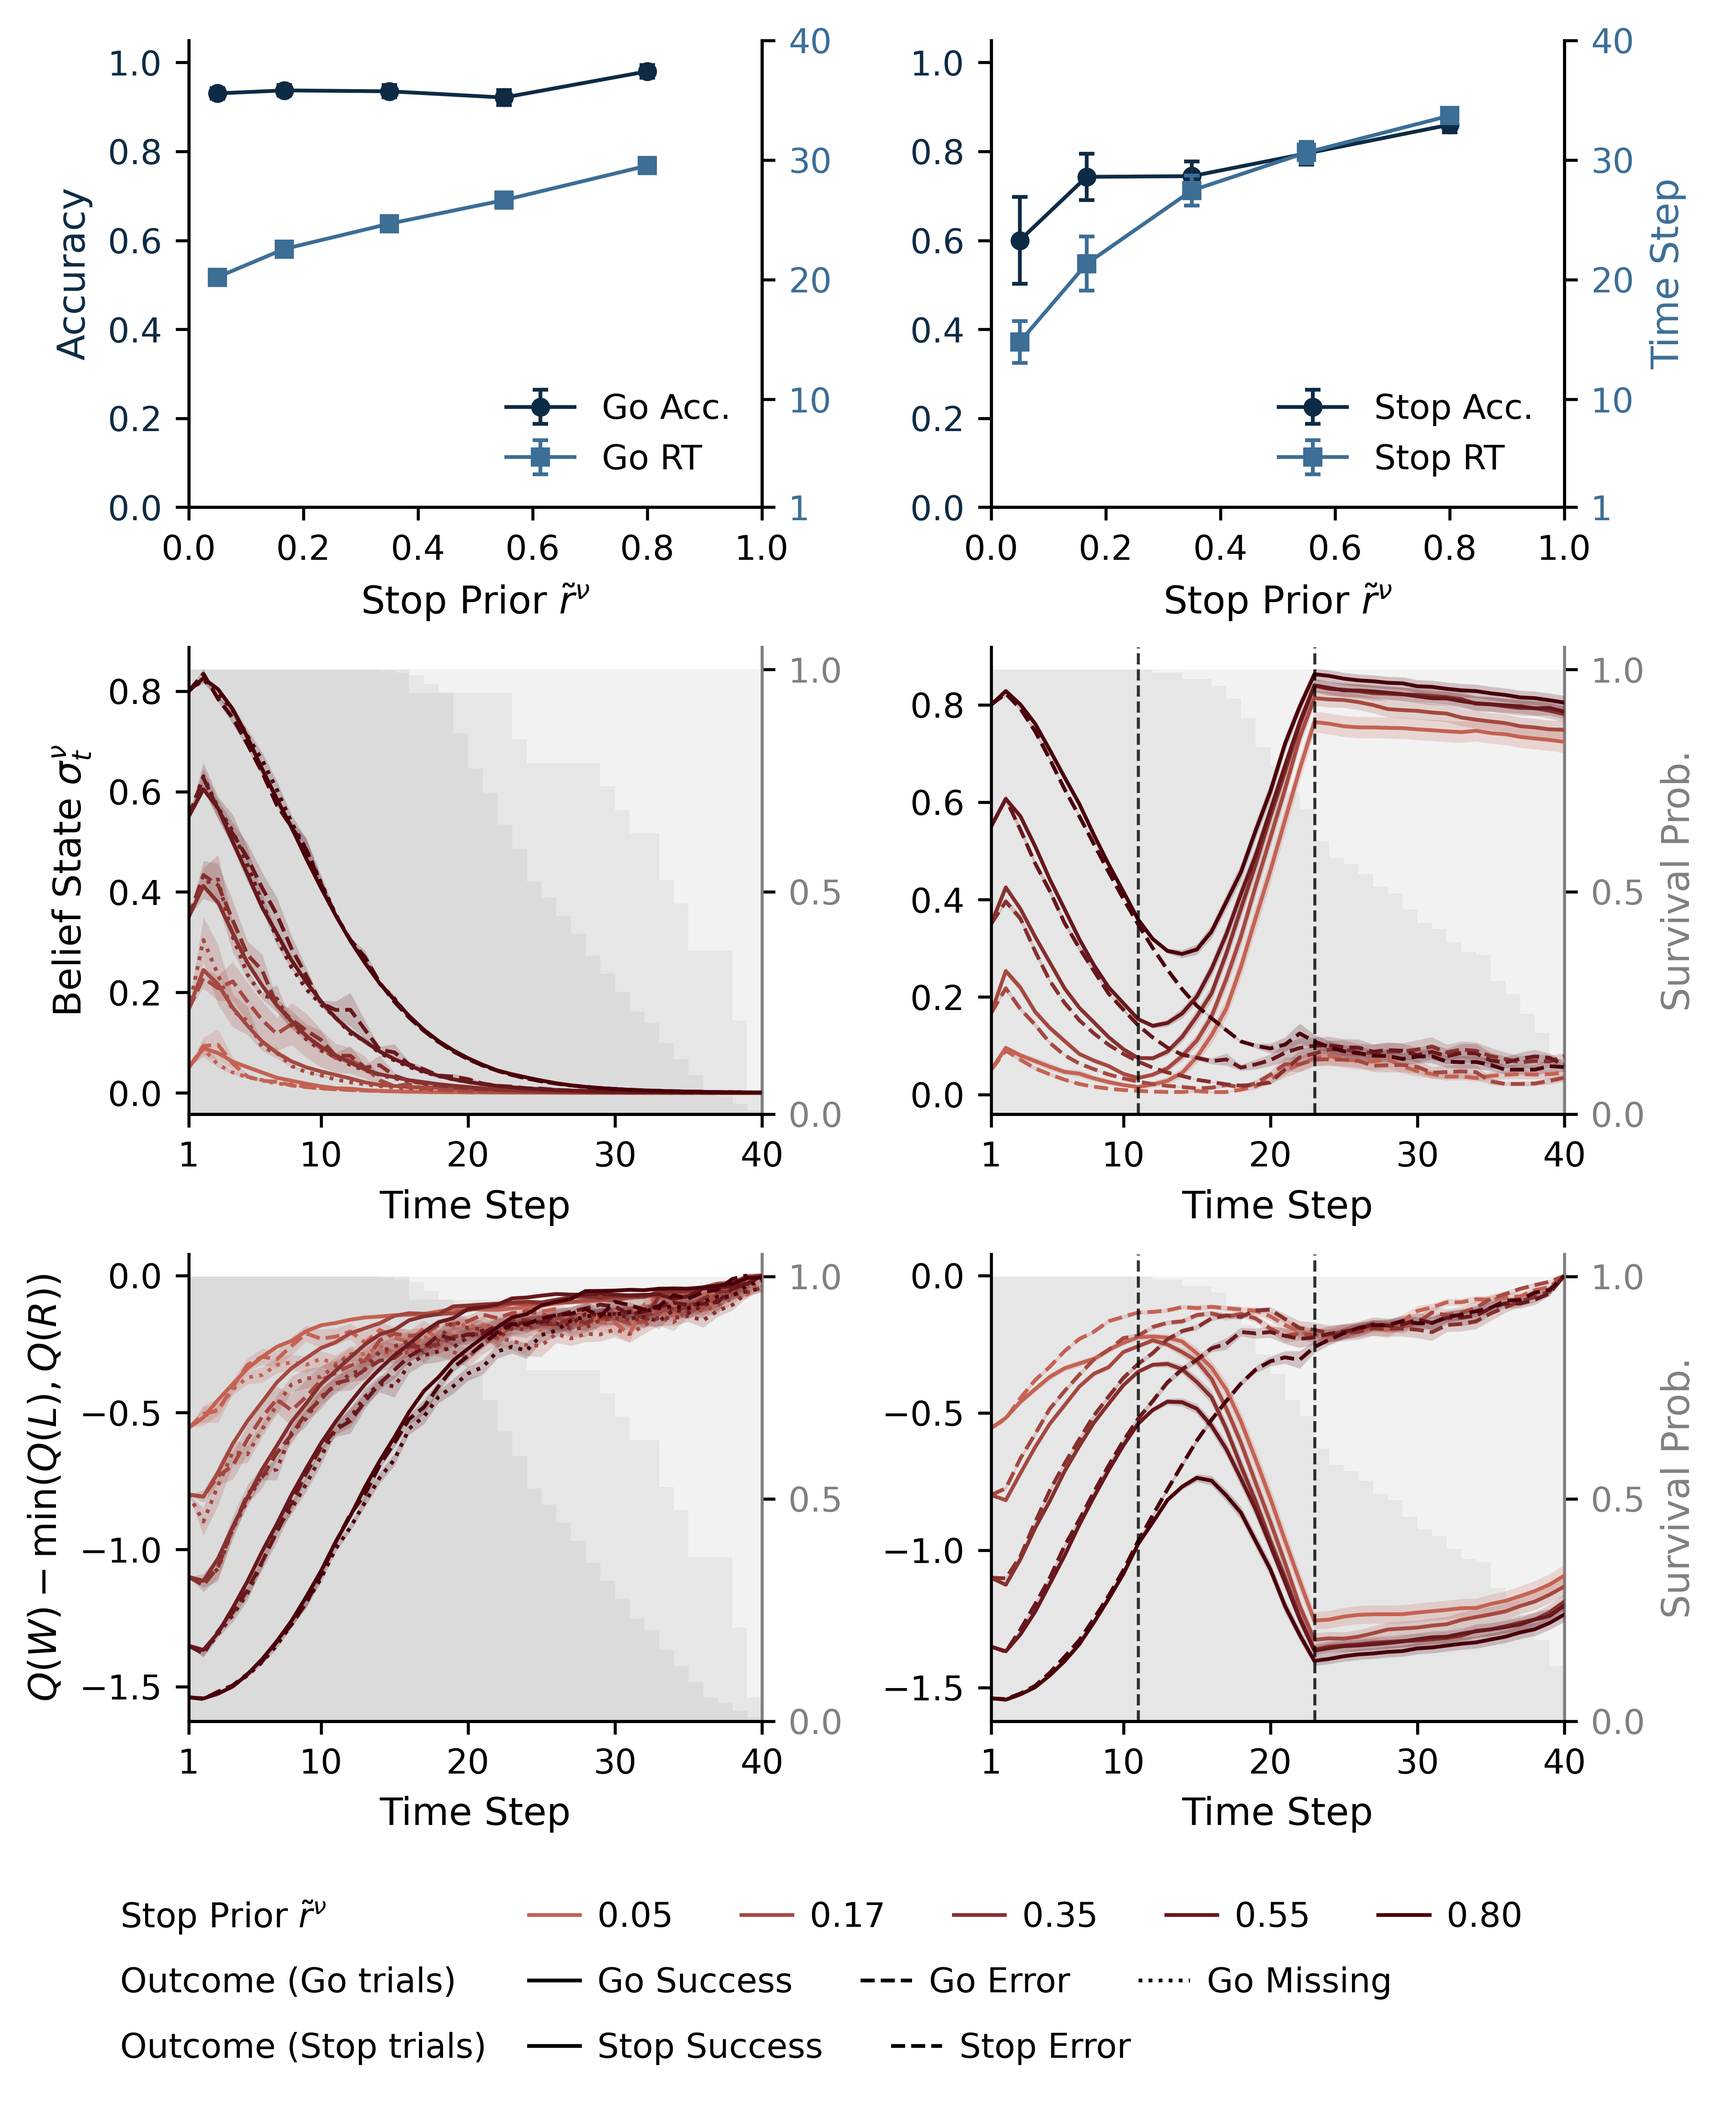
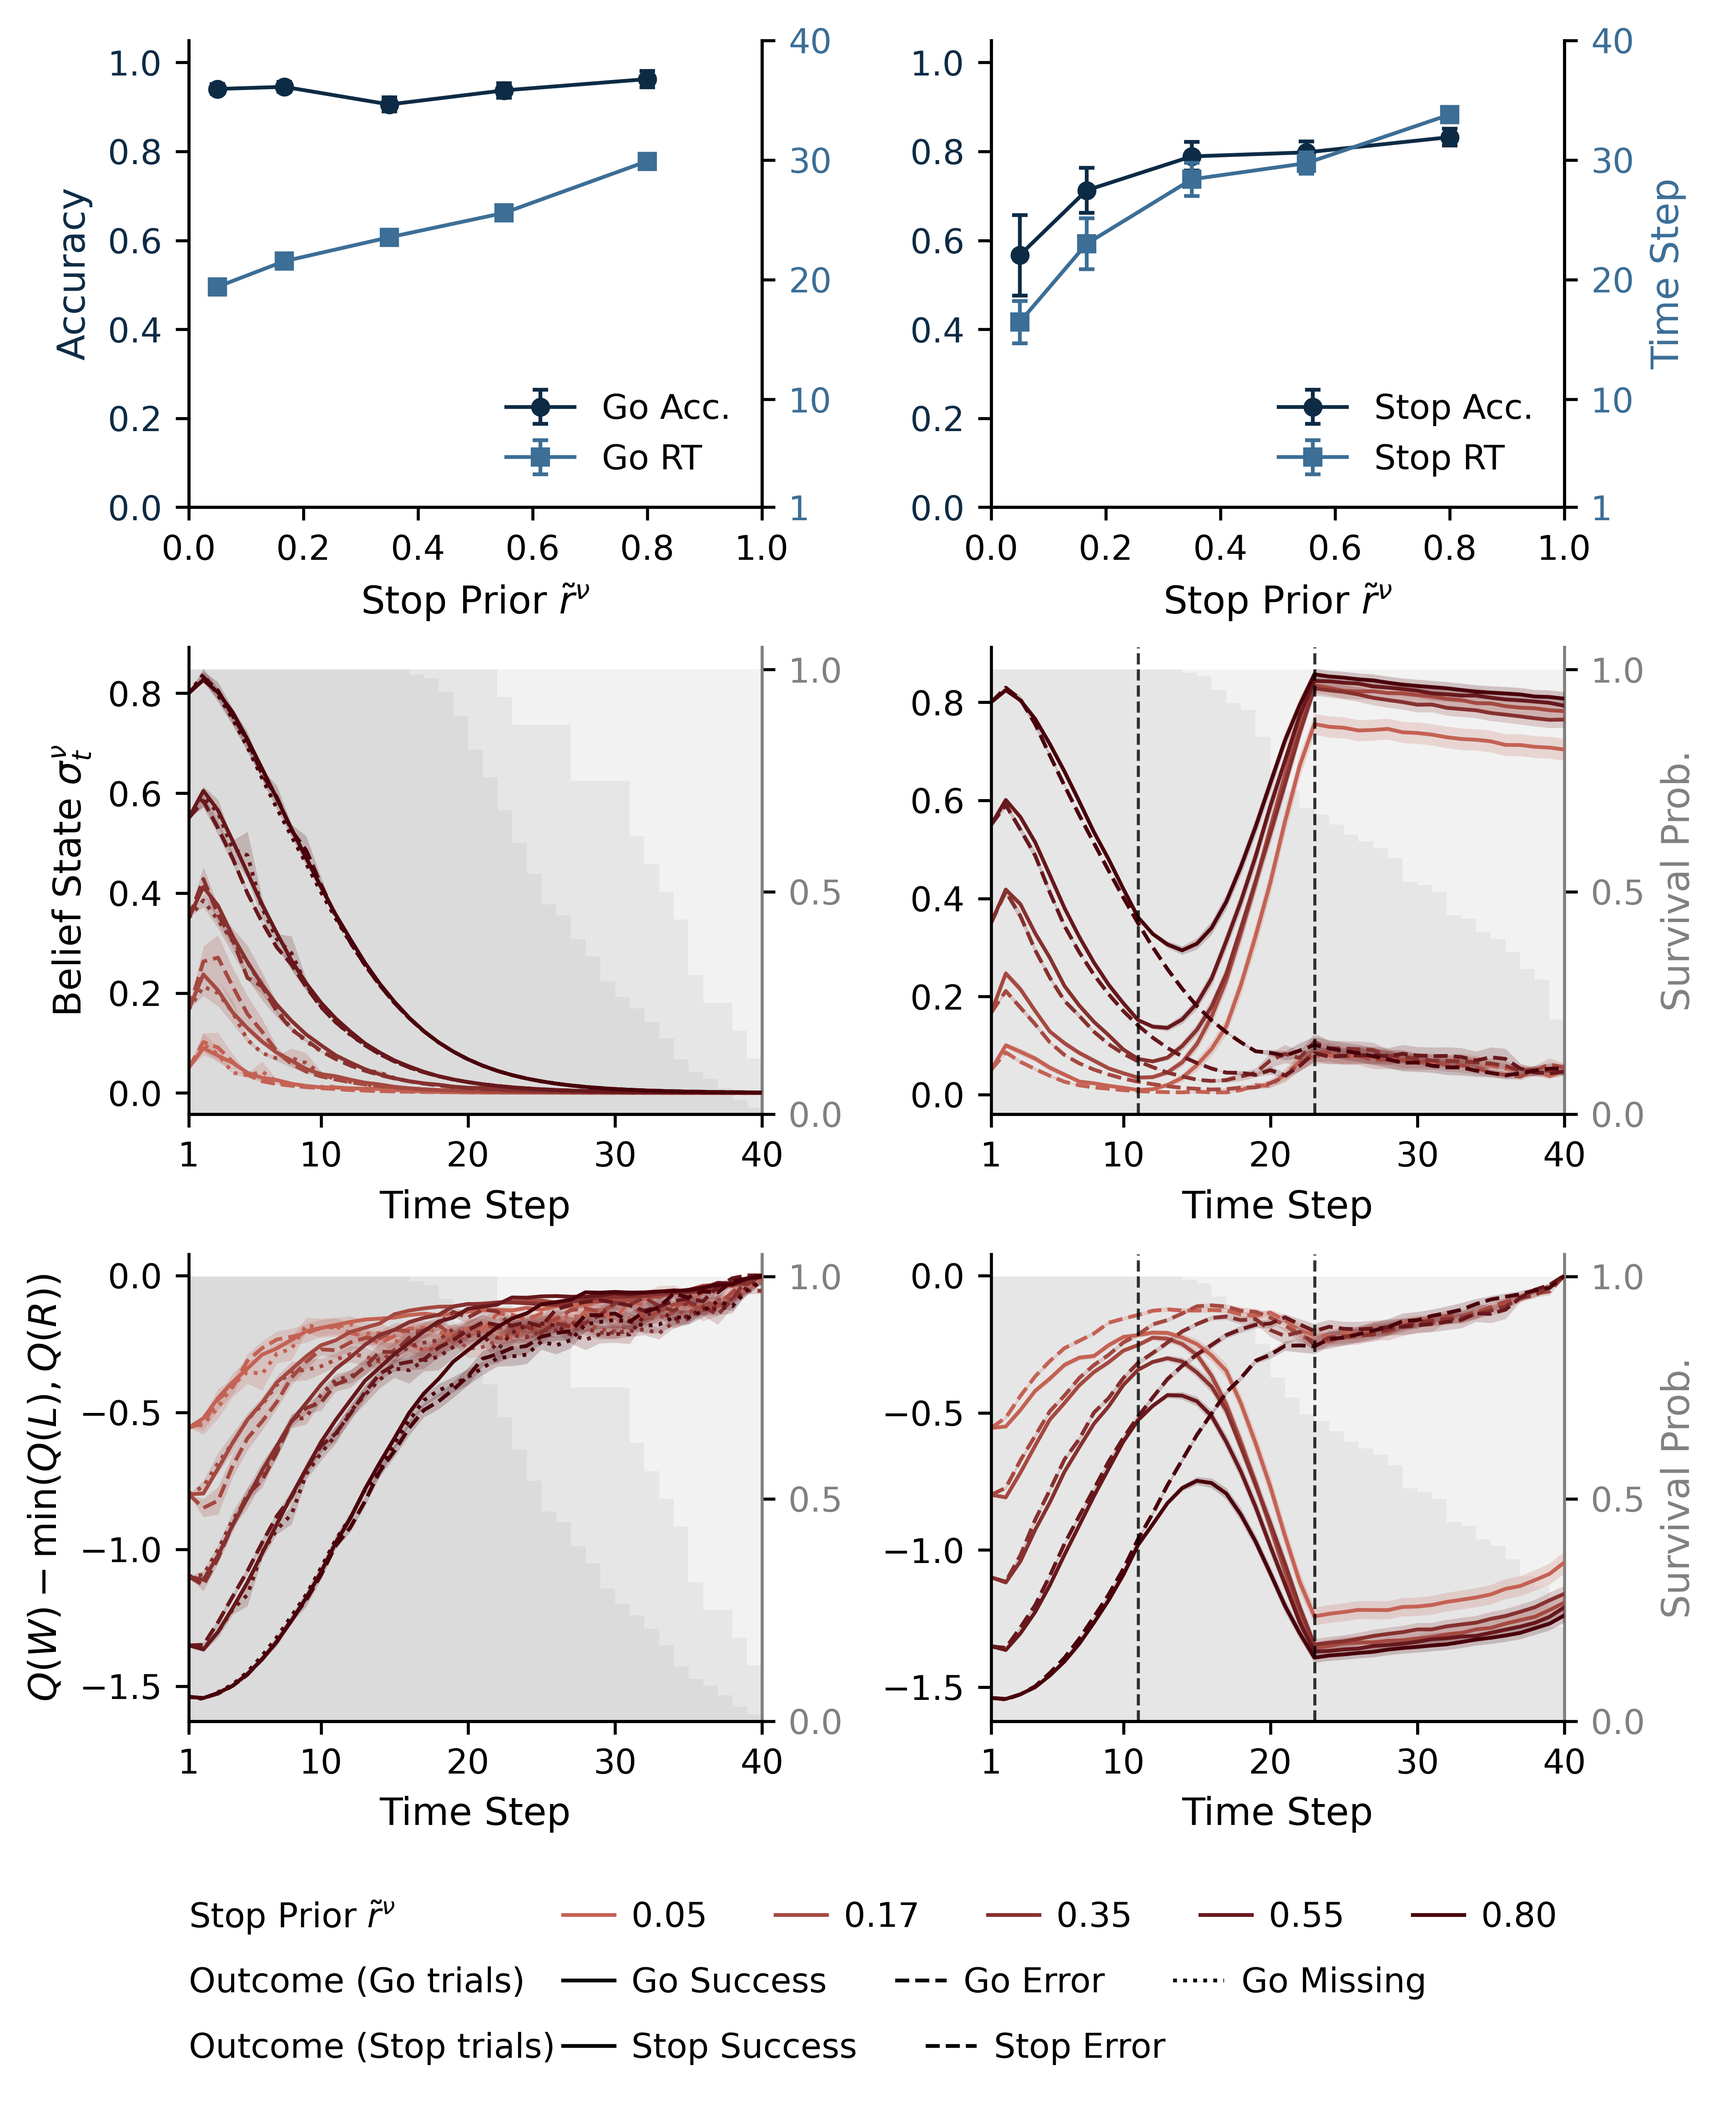
UP

diff --git a/core/plotting.py b/core/plotting.py
@@ -1035,8 +1035,8 @@ def plot_composite_3x2(
     y_row3 = 0.03
     
     # X-Coordinates (Left Alignment)
-    x_text   = 0.06  # Where the text labels start (Left edge)
-    x_legend = 0.28  # Where the handles start (aligned vertically)
+    x_text   = 0.1  # Where the text labels start (Left edge)
+    x_legend = 0.3  # Where the handles start (aligned vertically)
 
     # --- ROW 1: Stop Prior ---
     fig.text(x_text, y_row1, "Stop Prior " + r"$\tilde{r}^\nu$", ha='left', va='center', 
